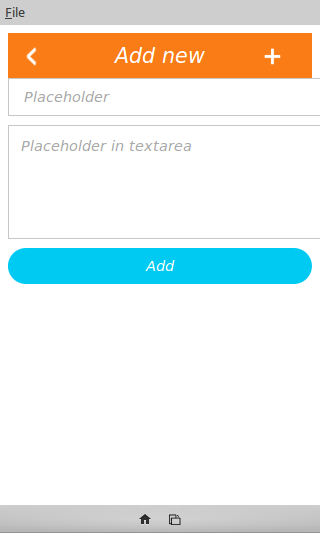
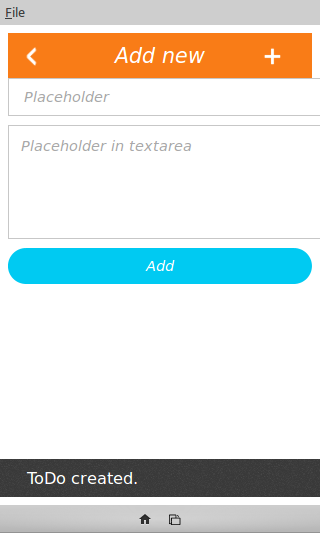
firefox:b04

Changed region(s): [[0.0, 0.8405, 1.0, 0.9306]]

diff --git a/mobil/firefoxos/public_html/b04/example/add.html b/mobil/firefoxos/public_html/b04/example/add.html
@@ -10,11 +10,12 @@
         <script src="app.js" type="text/javascript"></script>
         <script src="add.js" type="text/javascript"></script>
         <link href="app.css" rel="stylesheet" type="text/css"/>
+        <link href="styles/status.css" rel="stylesheet" type="text/css"/>
     </head>
     <body>
         <section role="region">
             <header>
-                <a href=""><span class="icon icon-back">back</span></a>
+                <a href="index.html"><span class="icon icon-back">back</span></a>
                 <menu type="toolbar">
                     <a href=""><span class="icon icon-add">add</span></a>
                 </menu>
@@ -33,8 +34,10 @@
                     <button class="recommend">Add</button>
                 </p>    
             </form>
-
         </section>
-
+        
+        <section role="status">
+            <p>ToDo created.</p>
+        </section>
     </body>
 </html>

diff --git a/mobil/firefoxos/public_html/b04/example/styles/status.css b/mobil/firefoxos/public_html/b04/example/styles/status.css
@@ -1,0 +1,33 @@
+/* ----------------------------------
+ * Status
+ * ---------------------------------- */
+
+html[dir="ltr"] section[role="status"] [dir] { text-align: left; }
+html[dir="rtl"] section[role="status"] [dir] { text-align: right; }
+
+section[role="status"] {
+  background-color: rgba(64,64,64,1);
+  background-image: url(status/images/ui/pattern.png);
+  background-repeat: repeat;
+  overflow: hidden;
+  position: absolute;
+  z-index: 100;
+  left: 0;
+  right: 0;
+  bottom: 0;
+  color: #fff;
+}
+html[dir="ltr"] section[role="status"] { background-position: left top; }
+html[dir="rtl"] section[role="status"] { background-position: right top; }
+
+section[role="status"] p {
+  font-size: 1.8rem;
+  font-weight: normal;
+  line-height: 2.2rem;
+  margin: 1rem 3rem;
+  padding: 0;
+}
+
+section[role="status"] p strong {
+  font-weight: 500;
+}

diff --git a/mobil/firefoxos/public_html/util/player/player.js b/mobil/firefoxos/public_html/util/player/player.js
@@ -111,8 +111,16 @@ function removeCode(pContainer,pLineNumbers){
 
 
 function startingPlayer(){
+            loadResource(getURLParameter("path"));
+}
+function startingPlayer(pUrl){
+            loadResource(pUrl);
+}
+
+
+function loadResource(pUrl){
             $.ajax({
-                url: getURLParameter("path"),
+                url: pUrl,
                 success: function(result){
                     eval("edContent="+result);
 
@@ -129,7 +137,6 @@ function startingPlayer(){
             });
             
 }
-        
 
 
             function writeCode(){

diff --git a/mobil/firefoxos/public_html/b04/example/add.js b/mobil/firefoxos/public_html/b04/example/add.js
@@ -9,4 +9,10 @@ function eventNewToDo(e){  //{speak:"create button on the button event"}
     var dataDesc = document.querySelector("#tododesc").value;
     var newtodo= new todo(dataName,dataDesc,"","");
     addTodo(newtodo);
+    document.querySelector('section[role="status"]').style.display="block";
+    setTimeout(hideStatus,3000);
+}
+
+function hideStatus(){
+    document.querySelector('section[role="status"]').style.display="none";
 }

diff --git a/mobil/firefoxos/public_html/b04/example/index.html b/mobil/firefoxos/public_html/b04/example/index.html
@@ -5,6 +5,7 @@
         <meta charset="UTF-8">
         <meta name="viewport" content="width=device-width, initial-scale=1.0">
         <link href="styles/headers.css" rel="stylesheet" type="text/css"/>
+        <link href="app.css" rel="stylesheet" type="text/css"/>
     </head>
     <body>
         <section role="region">

diff --git a/mobil/firefoxos/public_html/util/player/memooc.html b/mobil/firefoxos/public_html/util/player/memooc.html
@@ -34,7 +34,7 @@
                 </ul>
             </div>
         <script>
-            startingPlayer();
+            startingPlayer("http://krisztian666.github.io/mobil/firefoxos/public_html/b04/animations/en.conf");
         </script>
     </body>
 </html>

diff --git a/mobil/firefoxos/public_html/b04/example/app.css b/mobil/firefoxos/public_html/b04/example/app.css
@@ -1,4 +1,7 @@
-html
-{
+html{
     font-size: xx-small;
+}
+
+section[role="status"]{
+    display: none;
 }
